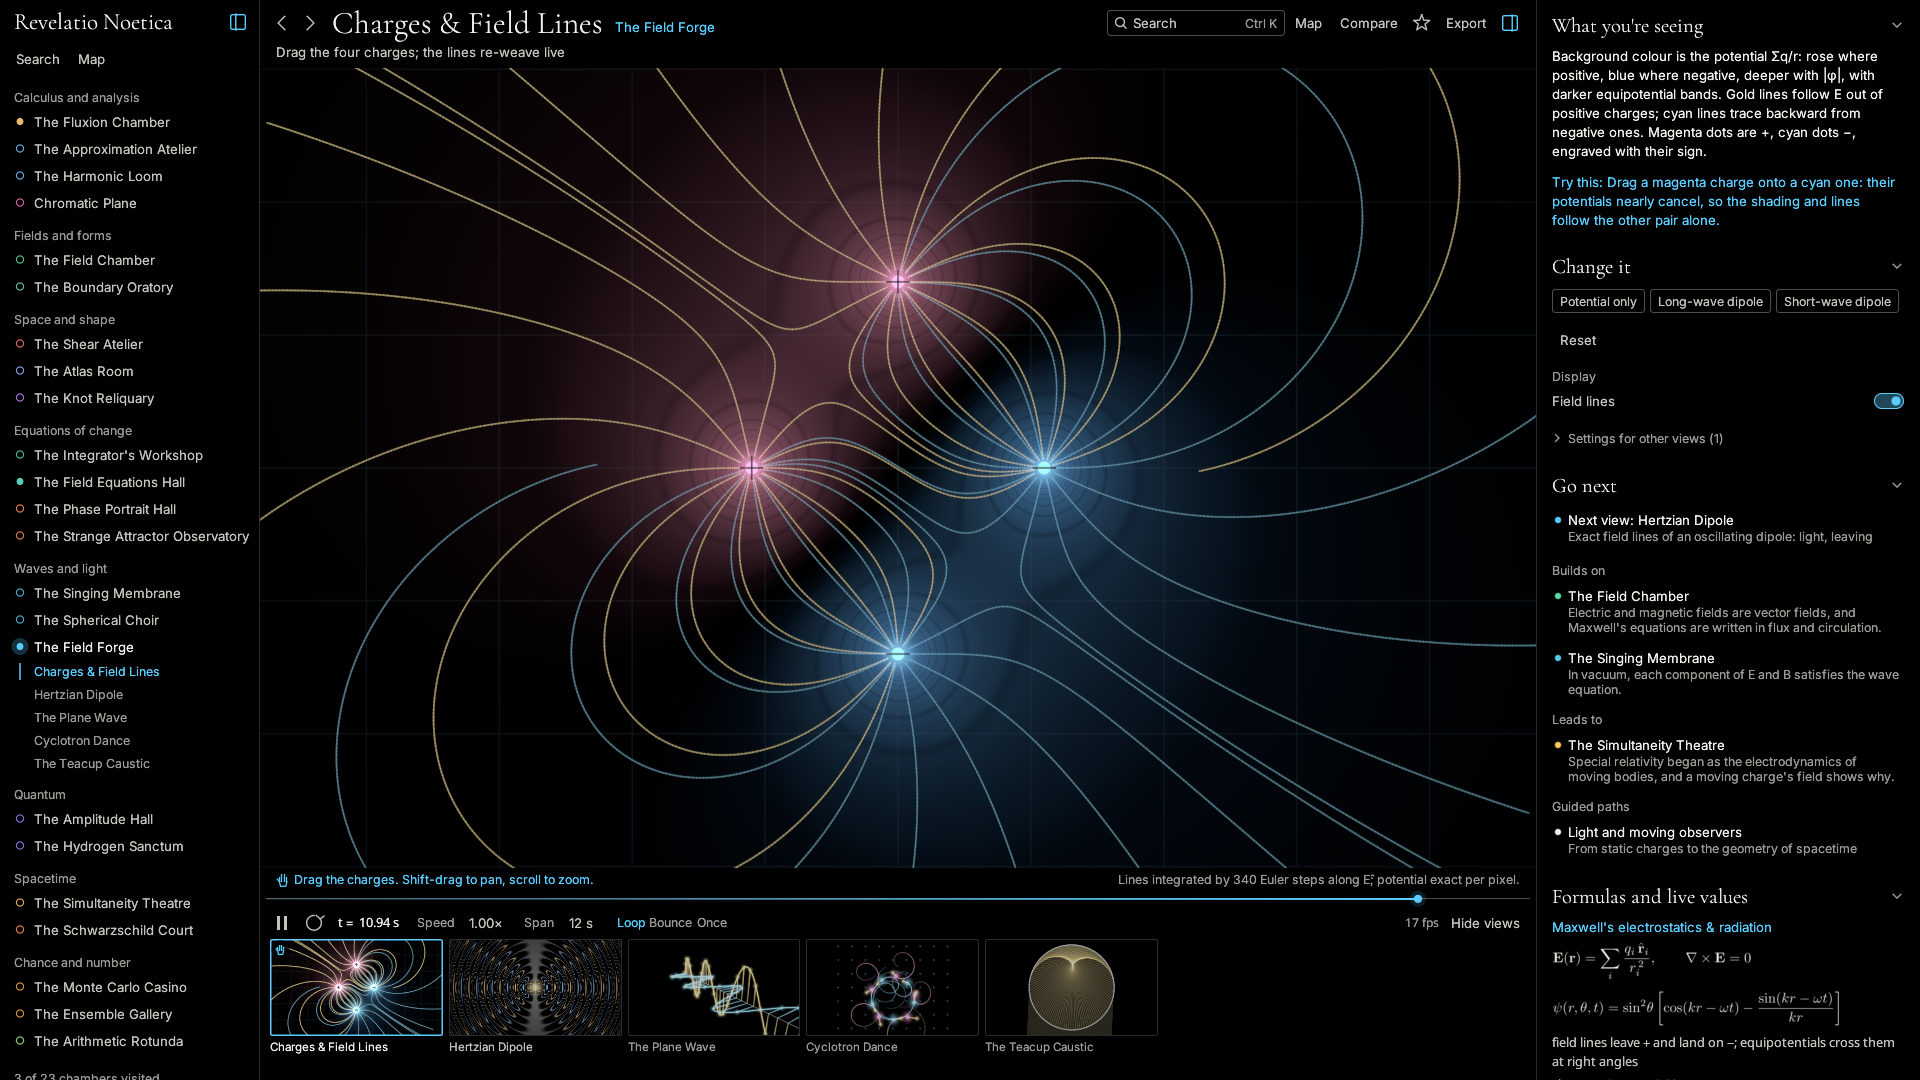
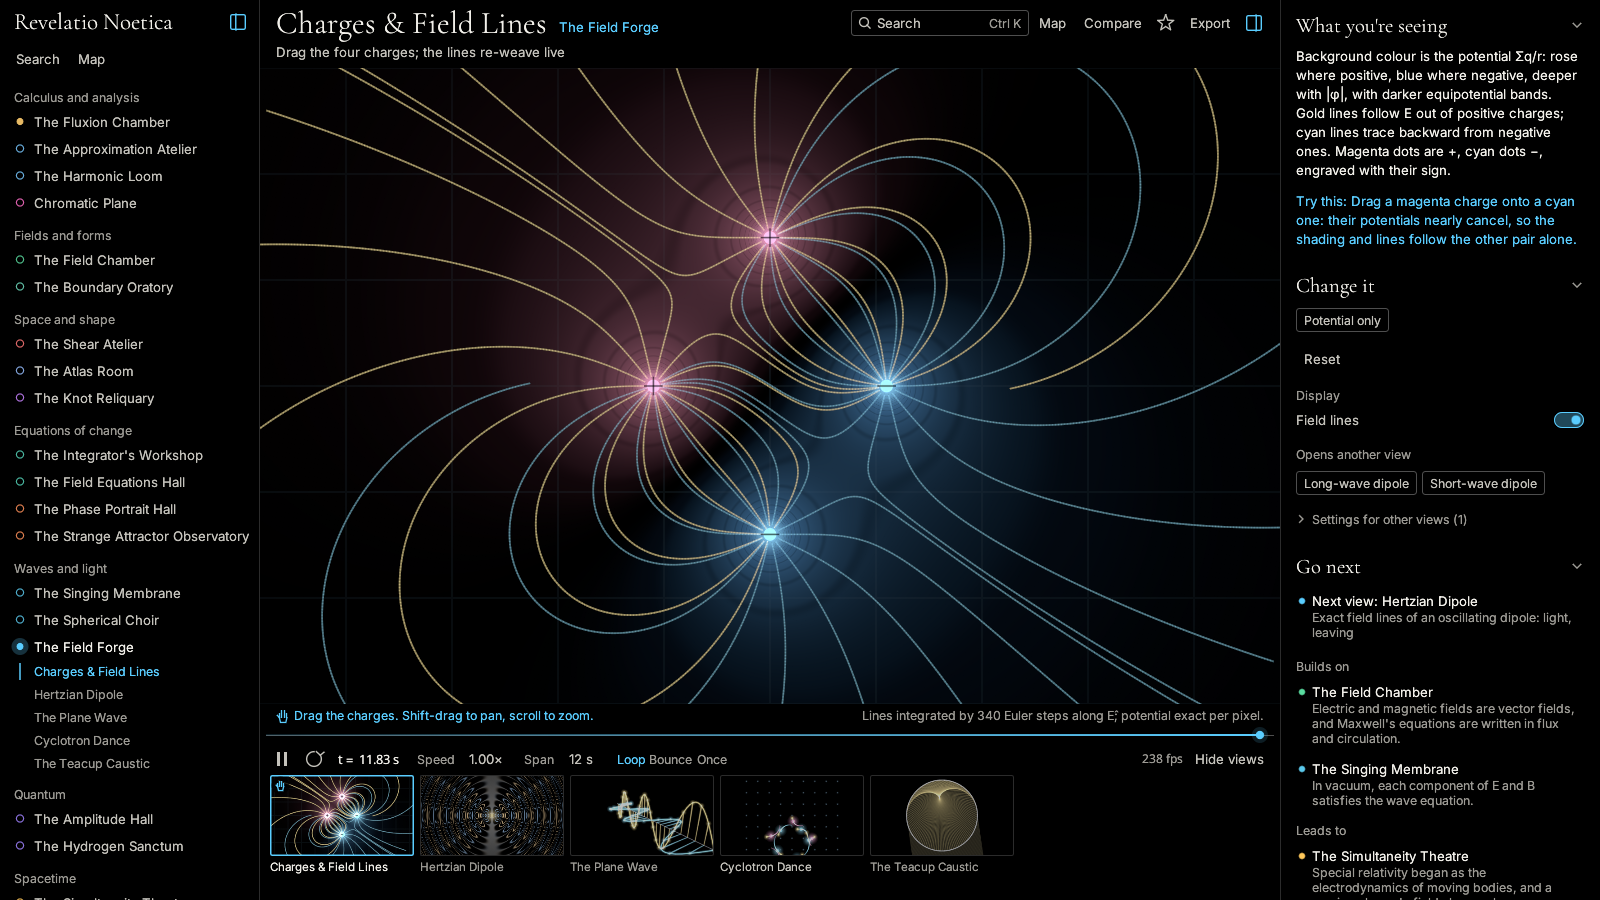
Add CodeQL and a security policy; show the real GPU in the README
The screenshot is now a capture of the app on an RTX 4060 instead of the software
renderer used by the test display. The unused 1280x720 copy is gone.

diff --git a/SECURITY.md b/SECURITY.md
@@ -1,0 +1,9 @@
+# Security
+
+Revelatio Noetica is a local desktop app. It makes no network connections and has no accounts.
+It does read files you give it: saved scenes, scene links and its own session file.
+
+To report a problem, such as a crafted scene file that crashes the app or writes somewhere it
+should not, use "Report a vulnerability" on the repository's Security tab if it is available.
+Otherwise open an issue that describes the affected area without exploit details, and ask for a
+private way to send them.

diff --git a/README.md b/README.md
@@ -9,7 +9,7 @@ views, and exact mathematics wherever exact mathematics is possible.
 Not a graphing calculator. Not an animation toy. Every view says what it computes
 and how it approximates.
 
-![The Field Forge at 1920×1080](docs/screenshot.png)
+![The Field Forge at 1600×900, running at 238 fps on an RTX 4060](docs/screenshot.png)
 
 ## Build and run on Linux
 
